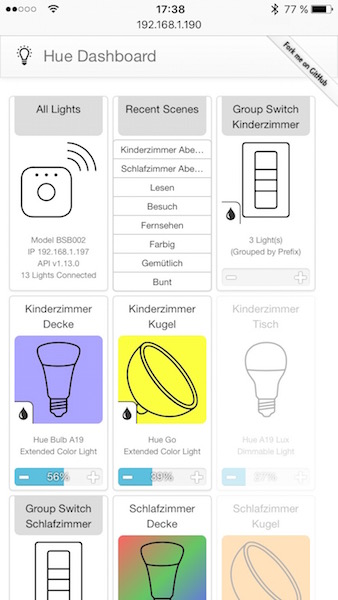
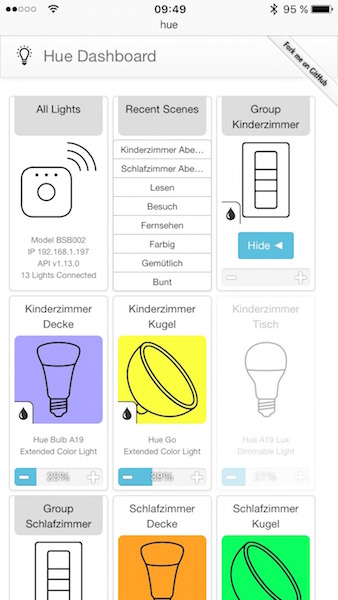
Documentation and screenshot update

diff --git a/README.md b/README.md
@@ -17,9 +17,10 @@ And the same on the iPad:
 ### Features
 
 - Aims to be an ideal control panel for daily operation of your Hue lights
-- No hierarchy, menu diving or anything like that; switching on the light should be fast & simple!
+- No hierarchy, menu diving or anything like that; switching on the lights should be fast & simple!
 - Works with any modern browser
 - Adjusting individual lights or the automatically created groups is comfortable both with a mouse and touch based input
+- Light groups can be shown / hidden, preferences are stored on a per-browser basis
 - Existing scenes created in other Hue applications are fetched from the bridge
 - Supports putting lights in a 'color loop' mode where they cycle between all available colors
 - Clicking a light / group caption makes the lamps blink (can be used as a crude form of communication!)
@@ -137,7 +138,7 @@ Also see this [bug report](https://github.com/commercialhaskell/stack/issues/209
 ```
 #!/bin/sh
 cd /home/pi/hue-dashboard/
-.stack-work/dist/arm-linux/Cabal-1.22.5.0/build/hue-dashboard/hue-dashboard 2>&1
+exec .stack-work/dist/arm-linux/Cabal-1.22.5.0/build/hue-dashboard/hue-dashboard 2>&1
 ```
 * On ARM machines Hue Dashboard displays a 'Server' tile, allowing for shutdown and reboot of the Raspberry Pi without using SSH
 * This hopefully worked out all fine, be sure to file bug reports with the respective parts of the Haskell ecosystem to make sure it keeps getting easier
